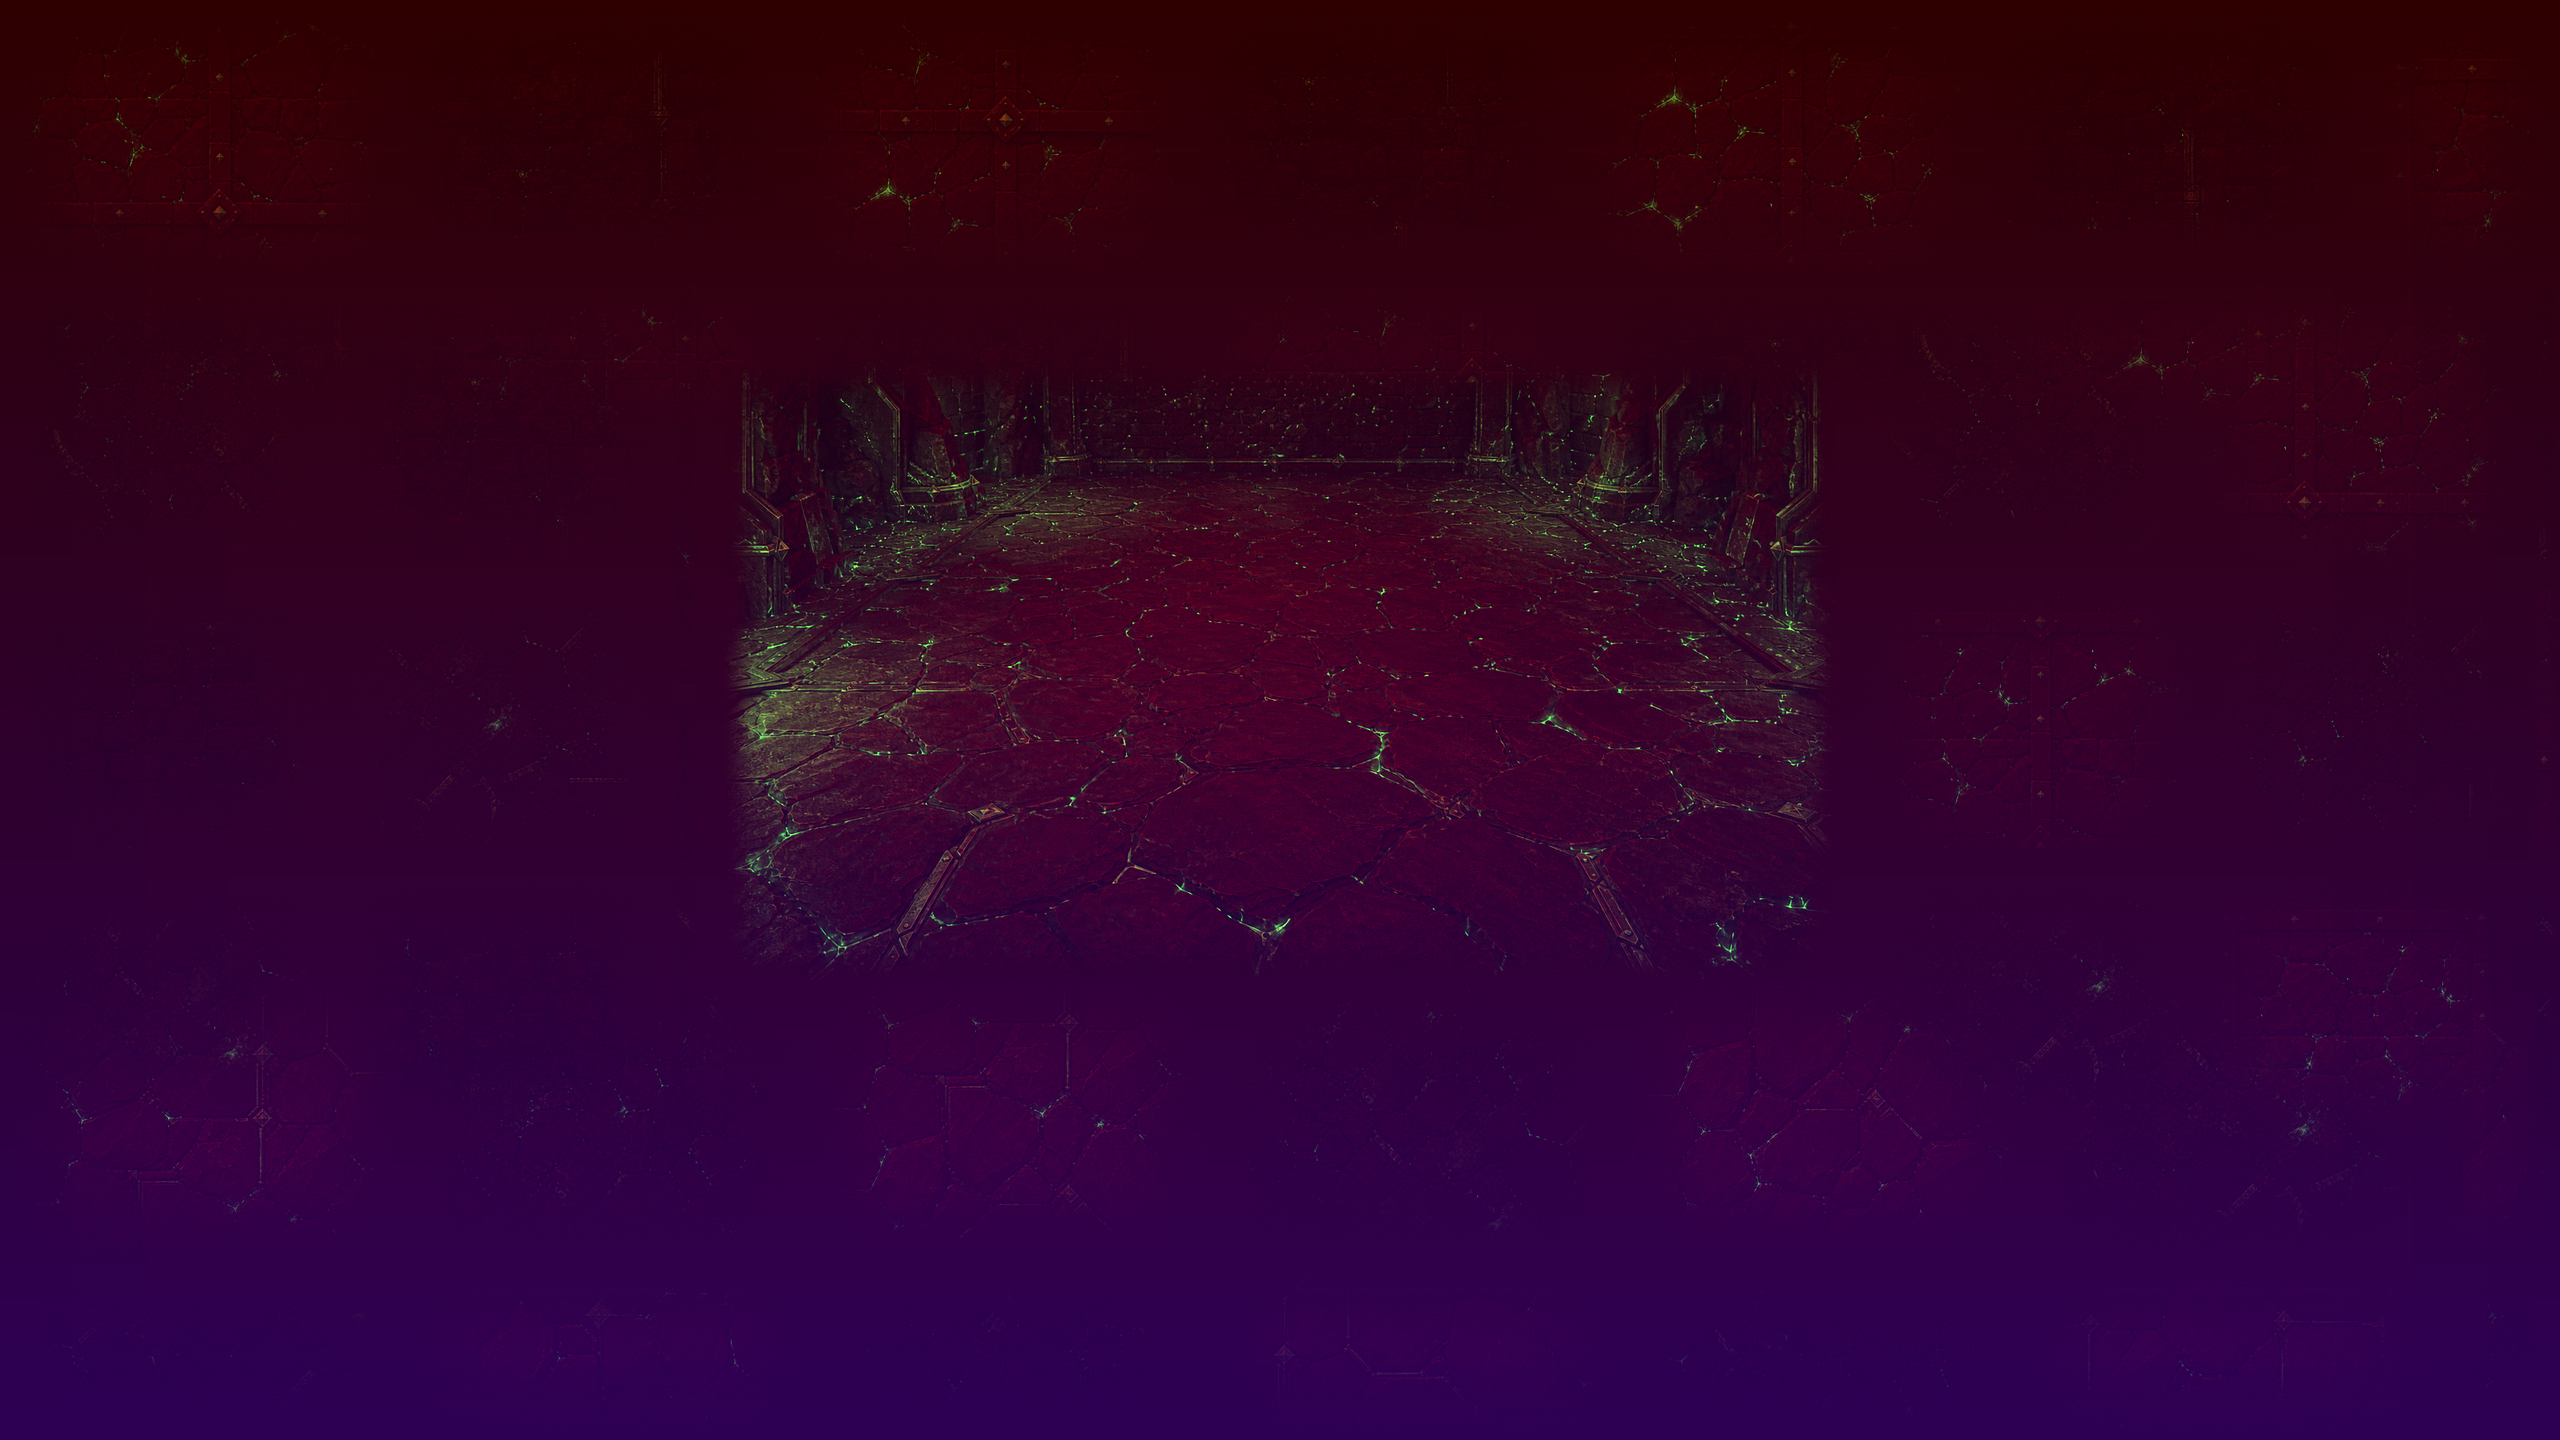
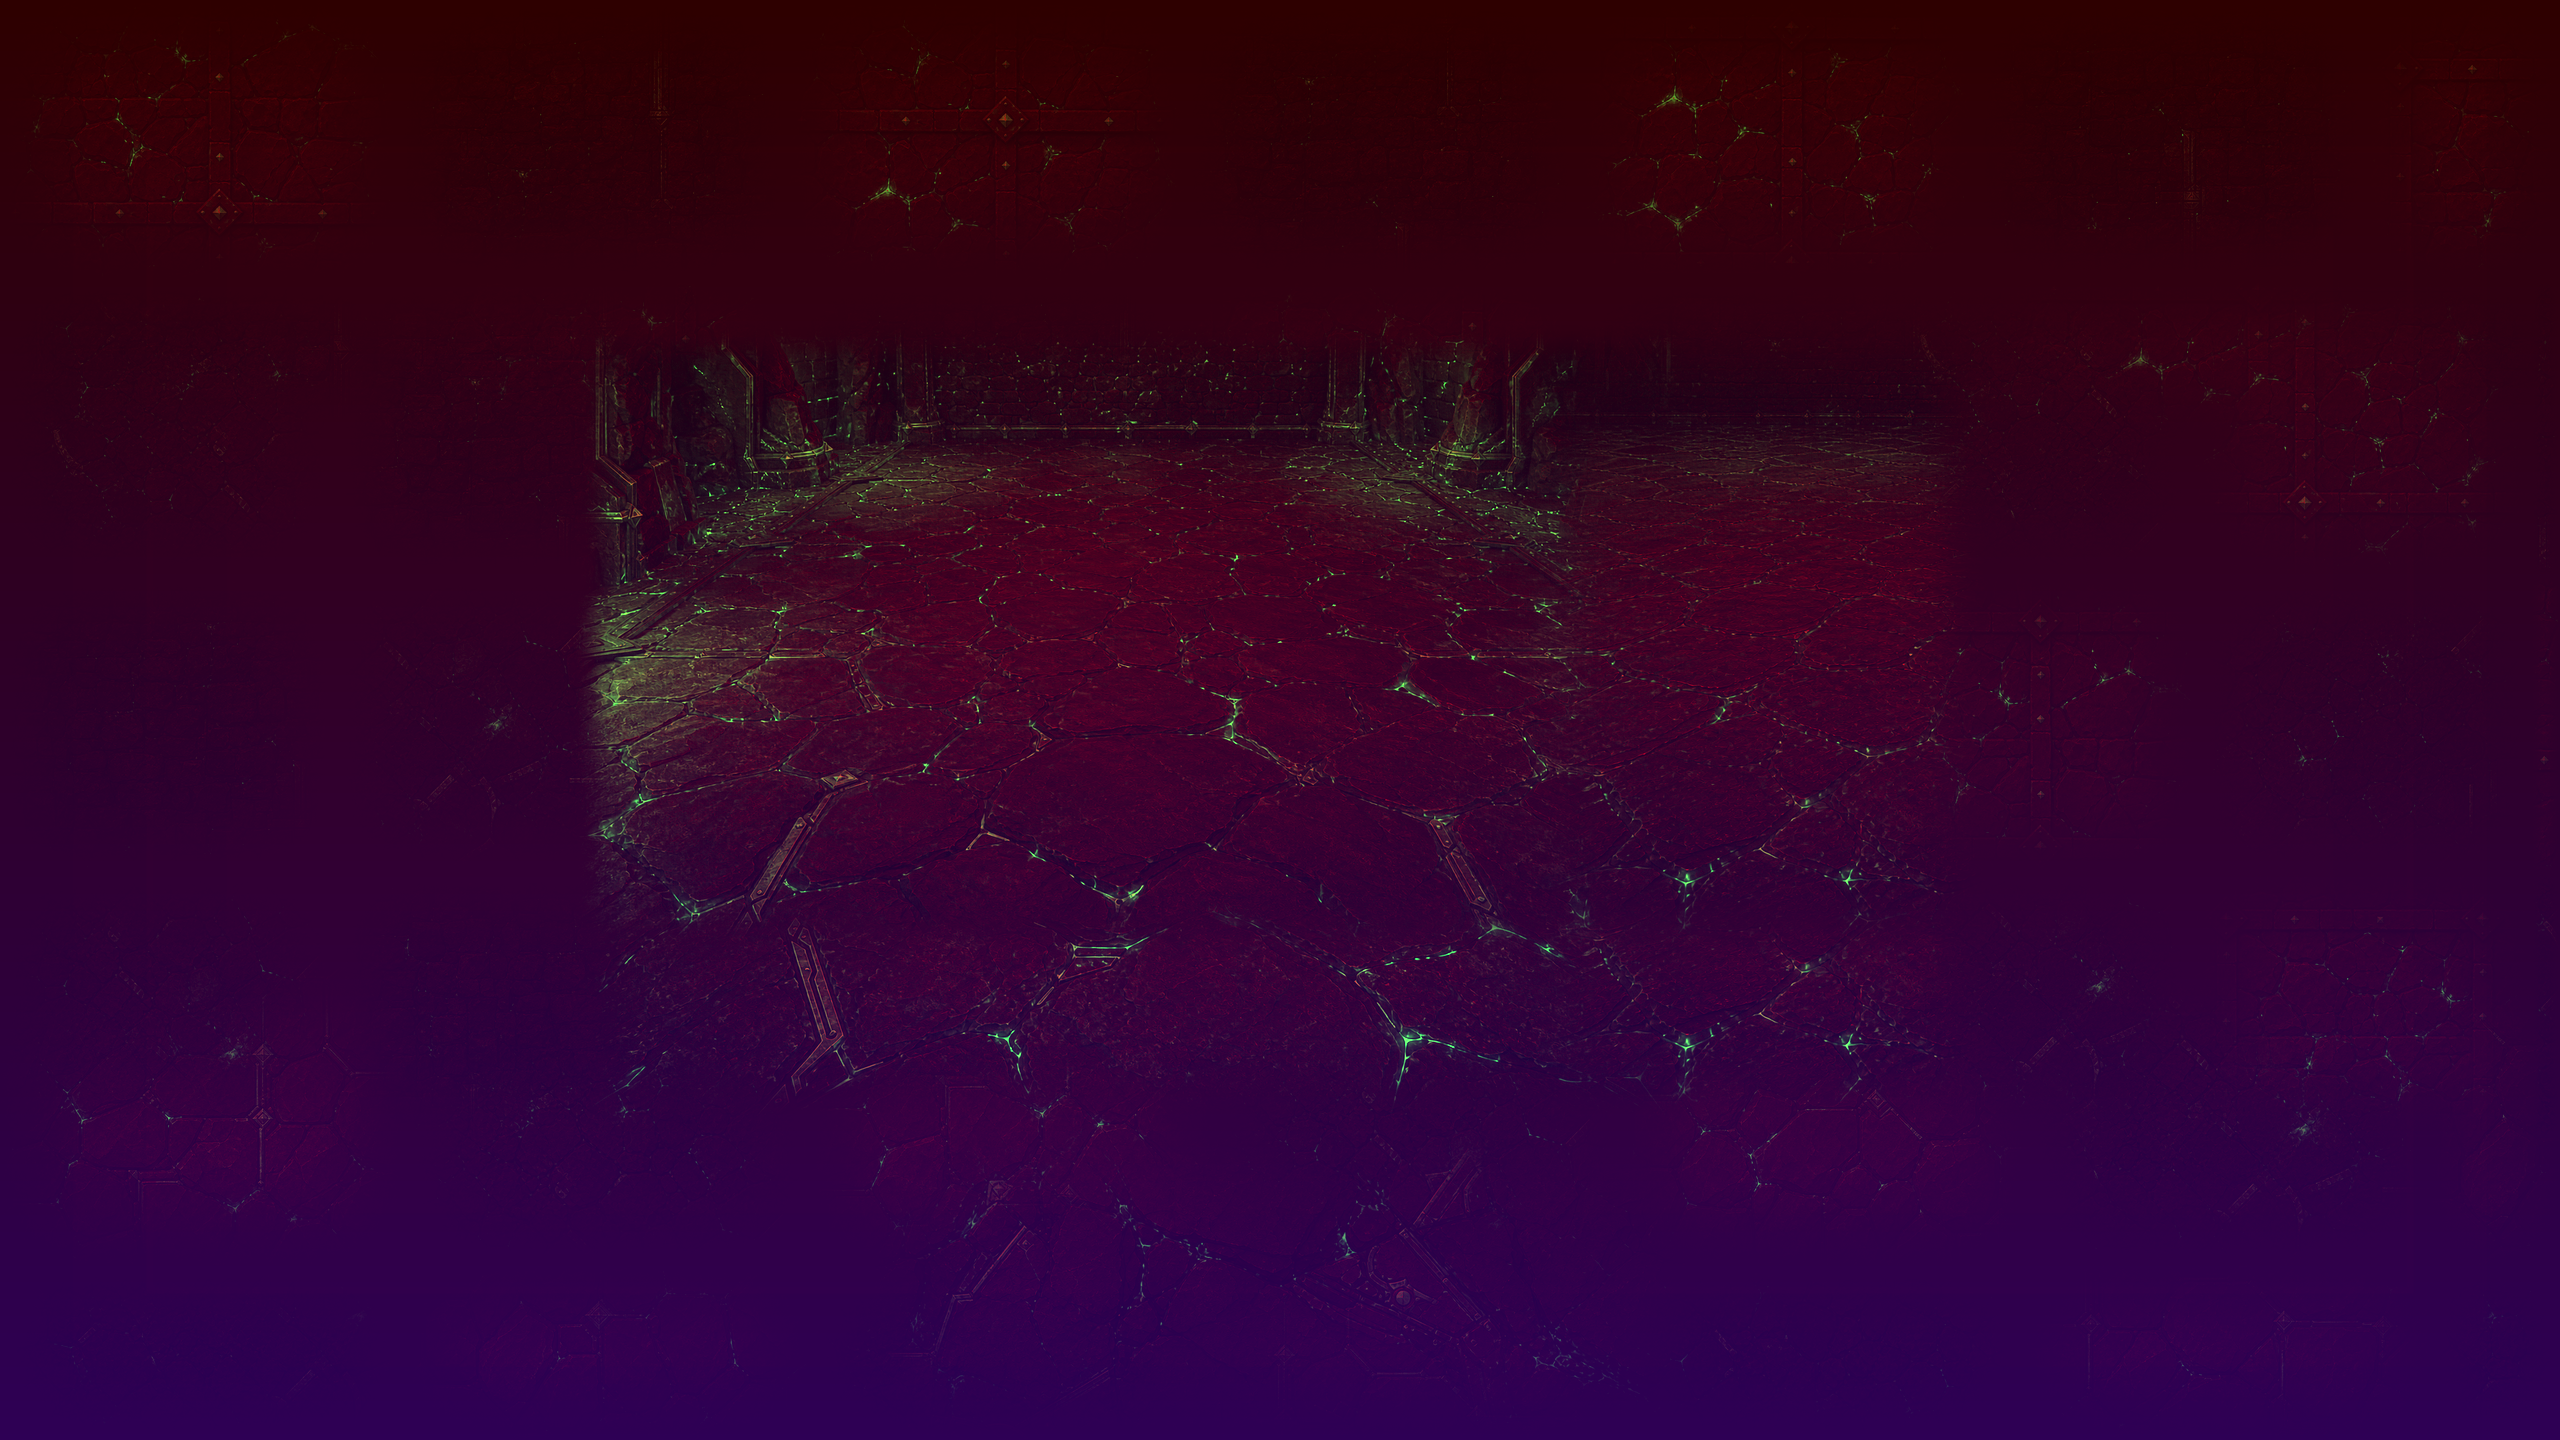
fix: extend native fire room coverage

diff --git a/tools/build_native_room_backgrounds.py b/tools/build_native_room_backgrounds.py
@@ -24,6 +24,7 @@ class BuildReport:
     runtime_size: tuple[int, int]
     source_sha256: dict[str, str]
     placements: list[dict[str, Any]]
+    continuous_room_rect: tuple[int, int, int, int]
     runtime_from_master: dict[str, Any]
     output_sha256: dict[str, str]
 
@@ -59,7 +60,7 @@ def _read_sources(ecology: str, root: Path) -> dict[str, Path]:
         if candidate.parent != permitted_directory or not candidate.is_file():
             raise ValueError(f"invalid declared source: {candidate}")
         sources[role] = candidate
-    required_roles = {"floor_legacy", "floor_near", "floor_mid", "wall_legacy", "wall_far", "room_layout"}
+    required_roles = {"floor_legacy", "floor_near", "floor_mid", "wall_legacy", "wall_far", "room_layout", "room_right_extension", "room_near_extension"}
     if set(sources) != required_roles:
         raise ValueError("fire build requires declared floor, wall, and native room layout sources")
     return sources
@@ -75,6 +76,7 @@ def _place_native(
     placements: list[dict[str, Any]],
     feather_px: int = 0,
     opacity: int = 255,
+    continuous_room: bool = False,
 ) -> None:
     left, top, right, bottom = source_rect
     source_width, source_height = right - left, bottom - top
@@ -111,6 +113,7 @@ def _place_native(
             "scale_x": target_width / source_width,
             "scale_y": target_height / source_height,
             "alpha_feather_px": feather_px,
+            "continuous_room": continuous_room,
         }
     )
 
@@ -226,12 +229,15 @@ def build_ecology(ecology: str, root: Path) -> BuildReport:
         Image.open(sources["wall_legacy"]) as wall_legacy_input,
         Image.open(sources["wall_far"]) as wall_far_input,
         Image.open(sources["room_layout"]) as room_layout_input,
+        Image.open(sources["room_right_extension"]) as room_right_extension_input,
+        Image.open(sources["room_near_extension"]) as room_near_extension_input,
     ):
-        loaded = {"floor_legacy": floor_legacy_input.convert("RGBA"), "floor_near": floor_near_input.convert("RGBA"), "floor_mid": floor_mid_input.convert("RGBA"), "wall_legacy": wall_legacy_input.convert("RGBA"), "wall_far": wall_far_input.convert("RGBA"), "room_layout": room_layout_input.convert("RGBA")}
-        if any(min(image.size) < 1024 for role, image in loaded.items() if role != "room_layout"):
+        loaded = {"floor_legacy": floor_legacy_input.convert("RGBA"), "floor_near": floor_near_input.convert("RGBA"), "floor_mid": floor_mid_input.convert("RGBA"), "wall_legacy": wall_legacy_input.convert("RGBA"), "wall_far": wall_far_input.convert("RGBA"), "room_layout": room_layout_input.convert("RGBA"), "room_right_extension": room_right_extension_input.convert("RGBA"), "room_near_extension": room_near_extension_input.convert("RGBA")}
+        room_roles = {"room_layout", "room_right_extension", "room_near_extension"}
+        if any(min(image.size) < 1024 for role, image in loaded.items() if role not in room_roles):
             raise ValueError("native source tiles must each be at least 1024 by 1024")
-        if loaded["room_layout"].width < 1024 or loaded["room_layout"].height < 720:
-            raise ValueError("native room layout source is unexpectedly small")
+        if any(loaded[role].width < 1024 or loaded[role].height < 720 for role in room_roles):
+            raise ValueError("native room extension source is unexpectedly small")
         master = Image.new("RGBA", MASTER_SIZE, (20, 21, 22, 255))
         placements: list[dict[str, Any]] = []
         wall_samples = [(sources["wall_far"], loaded["wall_far"]), (sources["wall_legacy"], loaded["wall_legacy"])]
@@ -239,8 +245,16 @@ def build_ecology(ecology: str, root: Path) -> BuildReport:
         _cover_perspective_band(master, [(sources["floor_mid"], loaded["floor_mid"]), (sources["floor_legacy"], loaded["floor_legacy"])], root, (0, 1450, 3840, 2160), 0.80, 29, placements, (760, 560), 85, 140)
         _cover_perspective_band(master, [(sources["wall_far"], loaded["wall_far"]), (sources["floor_mid"], loaded["floor_mid"])], root, (0, 420, 1050, 1710), 0.74, 43, placements, (680, 600), 75, 130)
         _cover_perspective_band(master, [(sources["wall_legacy"], loaded["wall_legacy"]), (sources["floor_mid"], loaded["floor_mid"])], root, (2790, 420, 3840, 1710), 0.74, 59, placements, (680, 600), 75, 130)
+        continuous_room_rect = (864, 486, 2976, 1674)
         layout = loaded["room_layout"]
-        _place_native(master, layout, sources["room_layout"], root, (0, 0, layout.width, layout.height), (1084, 536, 1084 + layout.width, 536 + layout.height), placements, feather_px=36)
+        right_extension = loaded["room_right_extension"]
+        near_extension = loaded["room_near_extension"]
+        _place_native(master, layout, sources["room_layout"], root, (0, 0, layout.width, layout.height), (864, 486, 864 + layout.width, 486 + layout.height), placements, feather_px=36, continuous_room=True)
+        _place_native(master, right_extension, sources["room_right_extension"], root, (0, 0, 676, 941), (2300, 486, 2976, 1427), placements, feather_px=56, continuous_room=True)
+        _place_native(master, near_extension, sources["room_near_extension"], root, (0, near_extension.height - 324, 1672, near_extension.height), (864, 1350, 2536, 1674), placements, feather_px=50, continuous_room=True)
+        _place_native(master, right_extension, sources["room_right_extension"], root, (0, right_extension.height - 324, 676, right_extension.height), (2300, 1350, 2976, 1674), placements, feather_px=50, continuous_room=True)
+        floor_near = loaded["floor_near"]
+        _place_native(master, floor_near, sources["floor_near"], root, (0, 520, floor_near.width, 1006), (1293, 1674, 2547, 2160), placements, feather_px=96, opacity=125)
         _apply_quiet_outer_vignette(master)
 
     master_path = root / "art_source/stage12/backgrounds/fire/fire-room-background-master.png"
@@ -257,6 +271,7 @@ def build_ecology(ecology: str, root: Path) -> BuildReport:
         runtime_size=RUNTIME_SIZE,
         source_sha256={_relative(path, root): _sha256(path) for path in sources.values()},
         placements=placements,
+        continuous_room_rect=continuous_room_rect,
         runtime_from_master={"resampling": "LANCZOS", "passes": 1},
         output_sha256={
             "master": _sha256(master_path),

diff --git a/tests/platform/native_room_background_asset_pipeline_tests.py b/tests/platform/native_room_background_asset_pipeline_tests.py
@@ -26,6 +26,7 @@ MASTER = ROOT / "art_source/stage12/backgrounds/fire/fire-room-background-master
 RUNTIME = ROOT / "assets/stage12/fire_room_background.png"
 MATERIAL = ROOT / "assets/stage12/fire_room_background_material.png"
 REPORT = ROOT / "assets/stage12/room-background-build.json"
+CONTINUOUS_ROOM_ROI = (864, 486, 2976, 1674)
 
 
 def sha256(path: Path) -> str:
@@ -42,12 +43,38 @@ def declared_sources(root: Path = ROOT) -> list[dict[str, str]]:
     return manifest["ecologies"][ECOLOGY]["sources"]
 
 
+def rectangles_cover_roi(rectangles: list[list[int]], roi: tuple[int, int, int, int]) -> bool:
+    """Return whether axis-aligned rectangles jointly cover every point of roi."""
+    left, top, right, bottom = roi
+    xs = {left, right}
+    for rect_left, _, rect_right, _ in rectangles:
+        xs.add(max(left, min(right, rect_left)))
+        xs.add(max(left, min(right, rect_right)))
+    ordered_xs = sorted(xs)
+    for x0, x1 in zip(ordered_xs, ordered_xs[1:]):
+        if x0 == x1:
+            continue
+        intervals = sorted(
+            (max(top, rect_top), min(bottom, rect_bottom))
+            for rect_left, rect_top, rect_right, rect_bottom in rectangles
+            if rect_left <= x0 and rect_right >= x1
+        )
+        cursor = top
+        for interval_top, interval_bottom in intervals:
+            if interval_top > cursor:
+                return False
+            cursor = max(cursor, interval_bottom)
+        if cursor < bottom:
+            return False
+    return True
+
+
 class NativeRoomBackgroundAssetPipelineTests(unittest.TestCase):
     def test_fire_sources_are_native_tiles_at_least_1024_pixels(self) -> None:
         for entry in declared_sources():
             source = ROOT / entry["path"]
             with self.subTest(source=source.name), Image.open(source) as image:
-                if entry["role"] == "room_layout":
+                if entry["role"].startswith("room_"):
                     self.assertGreaterEqual(image.width, 1024)
                     self.assertGreaterEqual(image.height, 720)
                 else:
@@ -115,6 +142,8 @@ class NativeRoomBackgroundAssetPipelineTests(unittest.TestCase):
             "art_source/stage12/backgrounds/fire/fire-floor-tile-v2-b.png",
             "art_source/stage12/backgrounds/fire/fire-wall-tile-v2.png",
             "art_source/stage12/backgrounds/fire/fire-room-layout-v2.png",
+            "art_source/stage12/backgrounds/fire/fire-room-right-extension-v3.png",
+            "art_source/stage12/backgrounds/fire/fire-room-near-extension-v3.png",
         })
         manifest_text = SOURCE_MANIFEST.read_text(encoding="utf-8")
         self.assertNotIn("assets/stage12/fire_environment.png", manifest_text)
@@ -136,6 +165,11 @@ class NativeRoomBackgroundAssetPipelineTests(unittest.TestCase):
             "runtime": sha256(RUNTIME),
             "material": sha256(MATERIAL),
         })
+        continuous_rect = fire_report["continuous_room_rect"]
+        self.assertLessEqual(continuous_rect[0], CONTINUOUS_ROOM_ROI[0])
+        self.assertLessEqual(continuous_rect[1], CONTINUOUS_ROOM_ROI[1])
+        self.assertGreaterEqual(continuous_rect[2], CONTINUOUS_ROOM_ROI[2])
+        self.assertGreaterEqual(continuous_rect[3], CONTINUOUS_ROOM_ROI[3])
         self.assertTrue(fire_report["placements"], "no native placements were recorded")
         for placement in fire_report["placements"]:
             source_left, source_top, source_right, source_bottom = placement["source_rect"]
@@ -154,6 +188,20 @@ class NativeRoomBackgroundAssetPipelineTests(unittest.TestCase):
             self.assertLessEqual(placement["scale_y"], 1.0)
             self.assertIn("source_rect", placement)
             self.assertIn("target_rect", placement)
+
+        continuous_placements = [placement for placement in fire_report["placements"] if placement.get("continuous_room")]
+        self.assertTrue(continuous_placements, "continuous room placements were not marked")
+        self.assertTrue(
+            rectangles_cover_roi([placement["target_rect"] for placement in continuous_placements], CONTINUOUS_ROOM_ROI),
+            "continuous room placement geometry does not cover the required central 55 percent",
+        )
+        consumed_floor_sources = {
+            placement["source"]
+            for placement in fire_report["placements"]
+            if "/fire-floor-" in placement["source"]
+        }
+        self.assertGreaterEqual(len(consumed_floor_sources), 2)
+        self.assertIn("art_source/stage12/backgrounds/fire/fire-floor-tile-v2-a.png", consumed_floor_sources)
 
         with Image.open(MASTER) as master, Image.open(RUNTIME) as runtime, Image.open(MATERIAL) as material:
             self.assertEqual(master.size, (3840, 2160))
